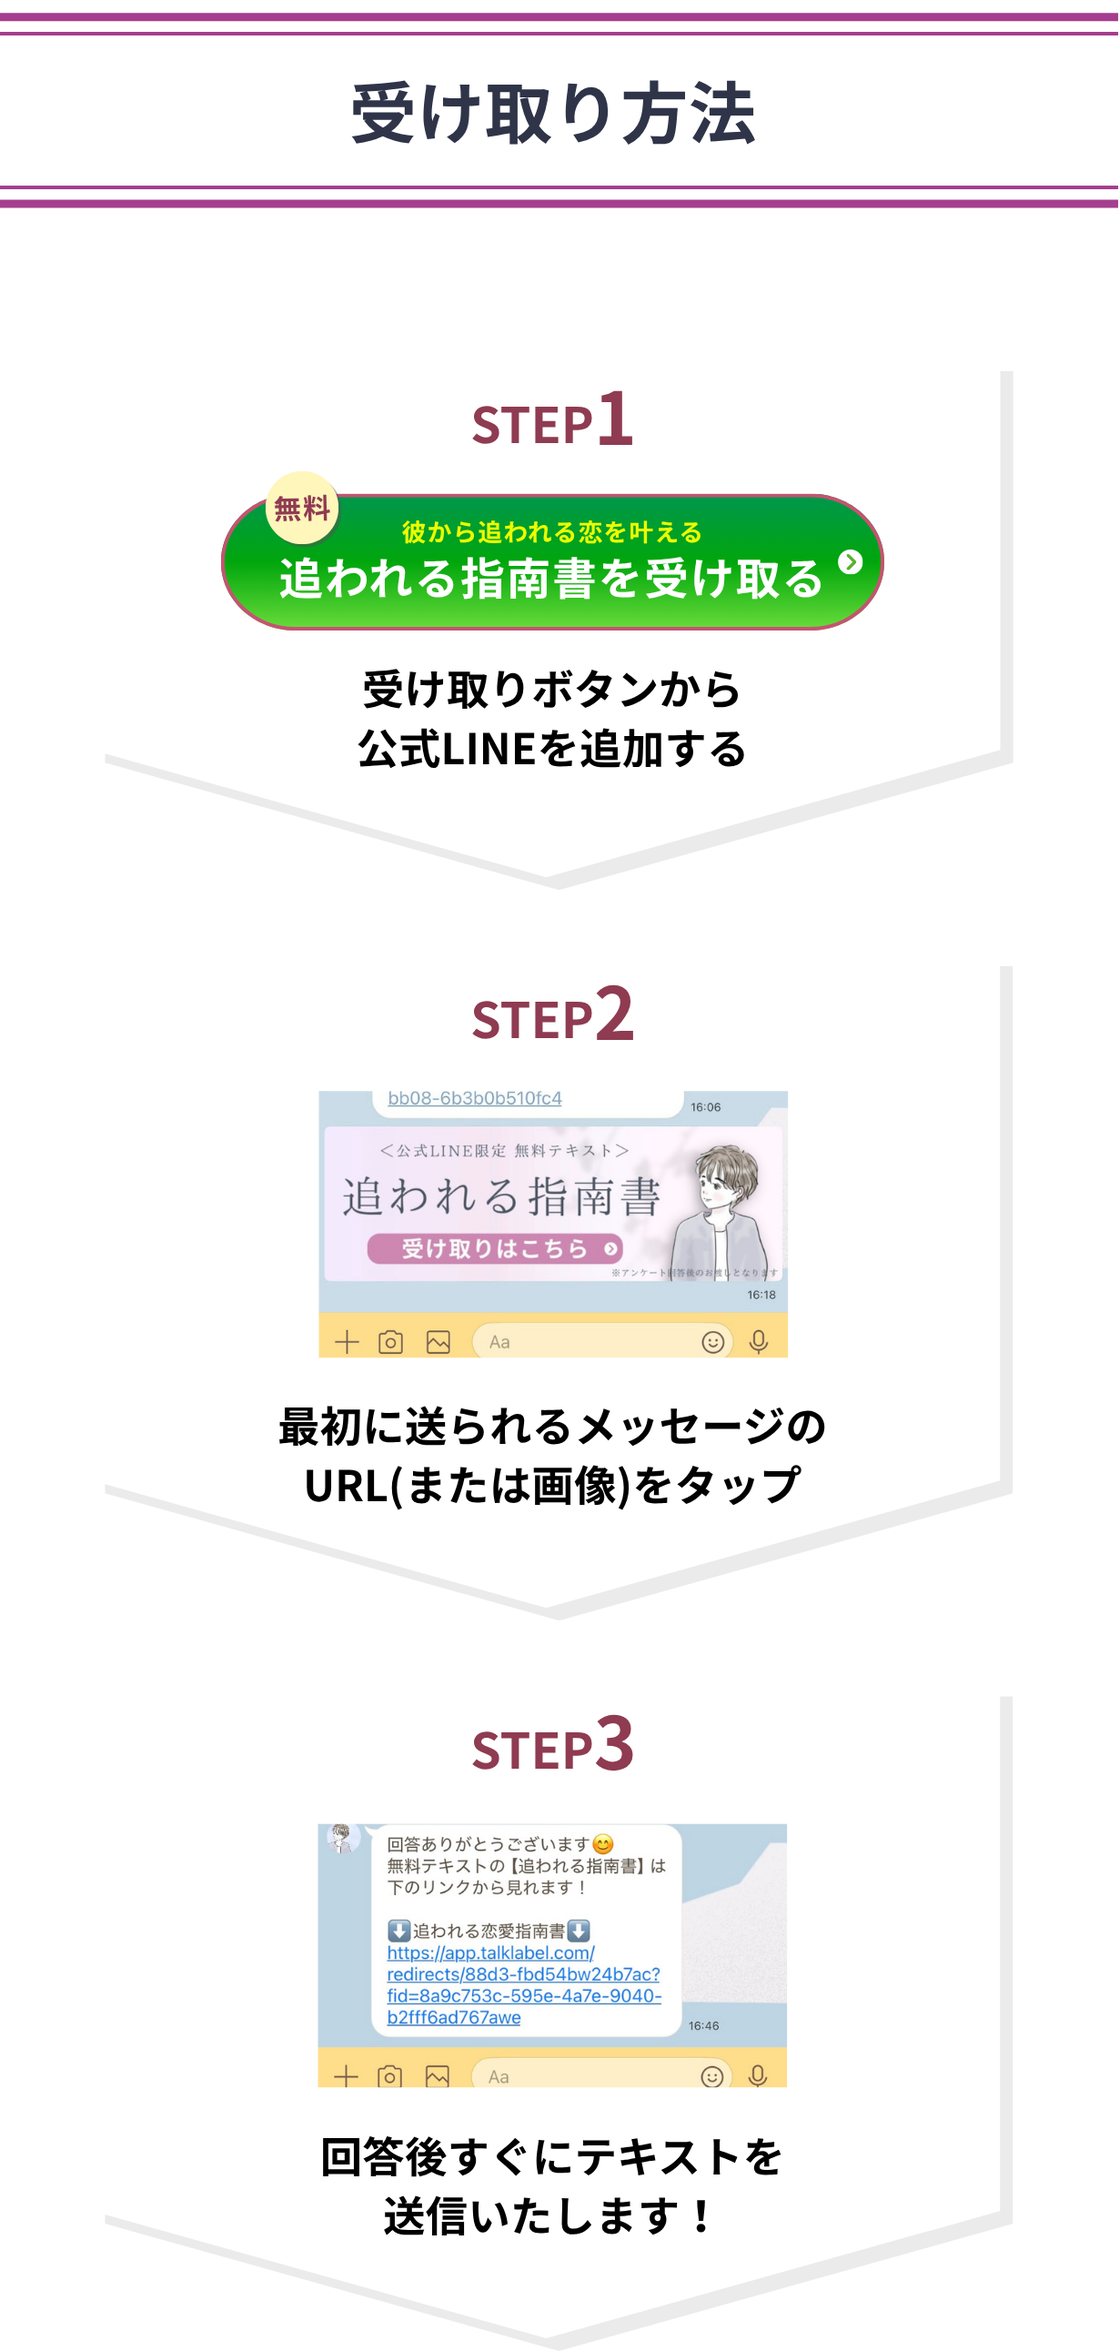
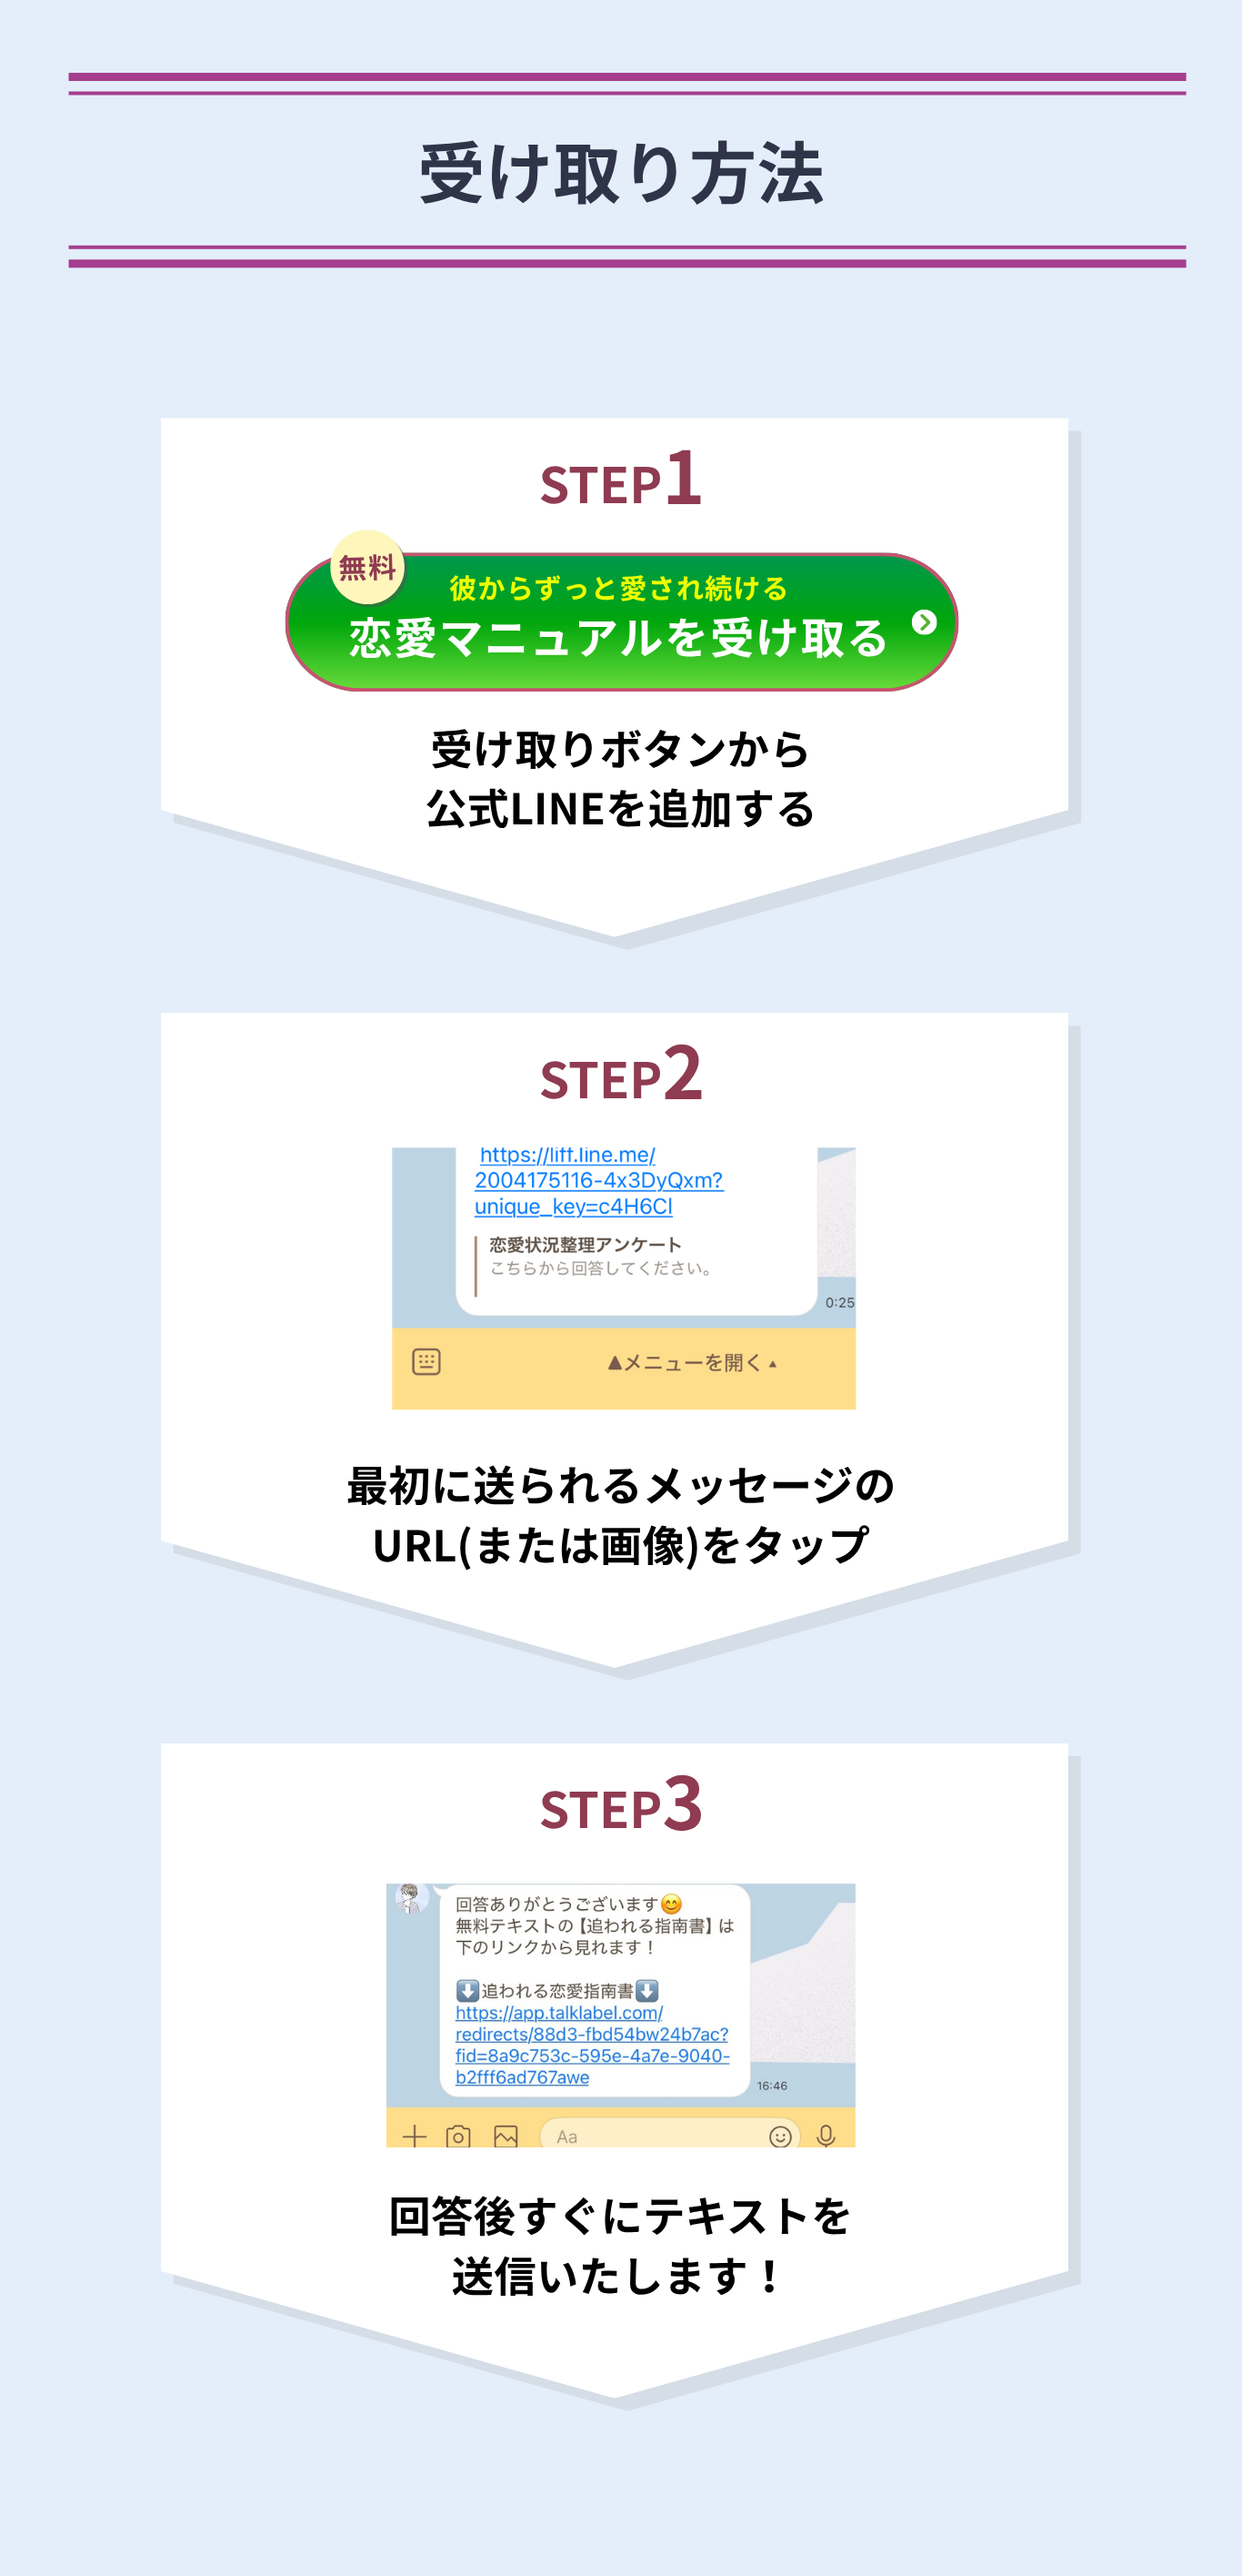
新テキスト対応

diff --git a/html/index.html b/html/index.html
@@ -12,7 +12,7 @@
   <meta property="og:site_name" content="まーくんの恋愛ブログ">
   <meta property="og:title" content="曖昧な関係と男性心理の恋愛相談 | まーくんの恋愛ブログ">
   <meta property="og:description" content="曖昧な関係で悩む女性へ。男性心理を知り、追う恋から愛される恋へ進むための無料指南書をまーくんがお届けします。">
-  <meta property="og:image" content="../image/追われる恋愛指南書.png">
+  <meta property="og:image" content="../image/彼からずっと愛され続ける恋愛マニュアル（冊子風）.png">
   <meta name="twitter:card" content="summary_large_image">
   <meta name="twitter:title" content="曖昧な関係と男性心理の恋愛相談 | まーくん">
   <meta name="twitter:description" content="彼の本音がわからない曖昧な関係から、安心して愛される恋へ。男性心理をもとにまーくんがサポートします。">
@@ -96,18 +96,16 @@
           </span>
           <br>
           <span class="fv-line">
-            <span class="copy-em copy-em--num">200</span>名を超える
+            <span class="copy-em copy-em--num">250</span>名を超える
           </span>
           <br>
           <span class="fv-line">女性をサポートして</span>
           <br>
           <br>
-          <span class="fv-line fv-line--strong">
-            <span class="copy-em copy-em--marker">曖昧な関係</span>から
-          </span>
+          <span class="fv-line fv-line--strong">彼からずっと</span>
           <br>
           <span class="fv-line fv-line--strong">
-            <span class="copy-em copy-em--marker">追われる恋</span>を
+            <span class="copy-em copy-em--marker">愛され続ける恋愛</span>を
           </span>
           <br>
           <span class="fv-line">叶えてきました！</span>
@@ -117,7 +115,7 @@
           <img class="achievement-image" src="../image/2.png" alt="お客様の実績写真">
           <div class="achievement-body">
             <h2 class="achievement-title">身体の関係から
-				<br>大切にされる本命彼女に..!</h2>
+				<br><span class="achievement-copy">大切にされる本命彼女に..!</span></h2>
             <p class="achievement-name">みかさん（30歳／看護師）</p>
             <p class="achievement-text">
               会ったときは彼氏みたいに優しいのに<br>
@@ -134,8 +132,9 @@
 		<article class="achievement-card" aria-label="お客様の実績">
           <img class="achievement-image" src="../image/3.png" alt="お客様の実績写真">
           <div class="achievement-body">
-            <h2 class="achievement-title">身体の関係から
-				    <br>大切にされる本命彼女に..!</h2>
+            <h2 class="achievement-title">1週間未読無視されてた関係が
+				    <br><span class="achievement-copy">「会いたい」って
+              <br>彼から誘われるように！</span></h2>
             <p class="achievement-name">香織さん（39歳／事務職）</p>
             <p class="achievement-text">
             嫌われるのが怖くて、自分から誘うことも、<br>
@@ -150,11 +149,37 @@
     <section class="section seo-intro" aria-labelledby="seo-intro-title">
       <div class="section-inner lp-narrow">
         <p class="section-label">love counseling</p>
-        <h2 id="seo-intro-title">曖昧な関係と男性心理に悩むあなたへ</h2>
-        <div class="seo-intro-grid">
-          <p>まーくんの恋愛ブログでは、「彼は好きと言うのに付き合おうとは言わない」「会えば優しいのに連絡は私からばかり」といった曖昧な関係の悩みに向き合います。</p>
-          <p>男性心理を決めつけで語るのではなく、彼の行動、距離感、あなたの不安の出方を整理しながら、追う恋から大切にされる恋へ進むためのヒントを届けています。</p>
+
+        <div class="seo-hero-slider" aria-hidden="true">
+          <img class="hero-slide is-active" src="../image/LP_スライドショー用１.png" alt="">
+          <img class="hero-slide" src="../image/LP_スライドショー用２.png" alt="">
+          <img class="hero-slide" src="../image/LP_スライドショー用３.png" alt="">
+          <img class="hero-slide" src="../image/LP_スライドショー用４.png" alt="">
         </div>
+        <div class="seo-hero-dots" aria-hidden="true">
+          <span class="seo-hero-dot is-active"></span>
+          <span class="seo-hero-dot"></span>
+          <span class="seo-hero-dot"></span>
+          <span class="seo-hero-dot"></span>
+        </div>
+
+        <h2 id="seo-intro-title" class="seo-hero-copy">
+          <span class="seo-hero-line">
+            彼は私のこと<br>
+            <span class="seo-hero-em">本当に好きなのかな</span>
+          </span>
+          <span class="seo-hero-line seo-hero-line--sm">
+            そんな<span class="seo-hero-strong">不安</span>な<span class="seo-hero-strong">恋</span>も
+          </span>
+          <span class="seo-hero-line">
+            <span class="seo-hero-em seo-hero-quote">彼からずっと愛され続ける方法</span><br>
+            <span class="seo-hero-sub">を知ることができれば</span>
+          </span>
+          <span class="seo-hero-line">
+            ありのままで<span class="seo-hero-em">愛される恋</span>を<br>
+            <span class="seo-hero-sub">叶えることができます</span>
+          </span>
+        </h2>
       </div>
     </section>
 
@@ -166,14 +191,30 @@
 	      <div class="section-inner lp-narrow">
 	        <p class="section-label">empathy</p>
 	        <div class="lp-text-stack">
-	          <p>出会った頃は、デートに誘ってくれたり連絡も頻繁にくれて。</p>
-	          <p>会った時は彼氏みたいに優しくしてくれて、「私のこと好きなのかな？」って感じる時もあるけど…</p>
-	          <p class="lp-em">でも、彼の方から「付き合って欲しい」と告白されたわけでもない。</p>
-	          <p>今では私が「会いたい」「ご飯行きませんか」って言わないと会わないし、LINEも自分がしない限り連絡が来ない…</p>
-	          <p class="lp-em">他に好きな人ができたのかな？と常に不安になる。</p>
-	          <p>自分から積極的に誘って、めんどくさいって思われたくない。</p>
-	          <p class="lp-em">待っていて、彼が離れていくのも不安。</p>
-	          <p>彼との関係をなんとかしたい！そう思っていても、彼の気持ちがわからなくて、どうすればいいのかわからなくなっちゃいますよね。</p>
+	          <p>出会った頃は</p>
+	          <p>デートに誘ってくれたり<br>連絡も頻繁にくれて</p>
+	          <p>会った時は<br>彼氏みたいに優しくしてくれて</p>
+	          <p><strong>私のこと好きなのかな？</strong><br>って感じる時もあるけど…</p>
+
+	          <div class="lp-highlight">
+	            <p>私のこと</p>
+	            <p class="lp-em">本当に好きなのかな</p>
+	          </div>
+
+	          <p>彼の方から</p>
+	          <p><strong>「付き合って欲しい」</strong><br>と告白されたわけでもないし</p>
+	          <p>今では私が<br><strong>「会いたい」「ご飯行きませんか」</strong><br>って言わないと会わないし</p>
+	          <p>LINEも自分がしない限り<br>彼の方から連絡が来ることはなくて…</p><br>
+
+	          <div class="lp-highlight">
+	            <p>他に好きな人ができたのかな？<br>と常に不安になる</p>
+	          </div><br>
+
+	          <p>自分から積極的に誘って<br><strong>めんどくさいって思われたくないし</strong></p>
+	          <p>待っていて、<br><strong>彼が離れていくのも不安。</strong></p>
+	          <p><strong>彼との関係をなんとかしたい！</strong><br>そう思っていても</p>
+	          <p><strong>彼の気持ちがわからなくて</strong><br>どうすればいいのか</p>
+	          <p>わからなくなっちゃいますよね</p>
 	        </div>
 	      </div>
 	    </section>
@@ -183,8 +224,16 @@
 		        <div class="lp-ribbon-badge lp-ribbon-badge--image">
 		          <img class="lp-ribbon-badge-image" src="../image/今ならまだ間に合います.png" alt="今ならまだ間に合います！">
 		        </div>
-		        <p class="lp-lead">「彼が離れていきそう」と不安になればなるほど、どうしても悪い方向に考えてしまうもの。</p>
-		        <p class="lp-lead">でも今から正しく<span class="lp-em">「彼から追われる方法」</span>を身につければ、あなたも<span class="lp-em">ありのままで愛される恋</span>を叶えられます。</p>
+		        <p class="lp-lead">「彼が離れていきそう」
+              <br>と不安になればなるほど、
+              <br>どうしても悪い方向に考えてしまうもの。</p>
+		        <p class="lp-lead">でも今から正しく
+              <br>
+              <br><span class="lp-em">彼からずっと愛され続ける方法</span>
+              <br>を身につければ、
+              <br>
+              <br>あなたも<span class="lp-em">ありのままで愛される恋</span>を
+              <br>叶えられます。</p>
 		      </div>
 		    </section>
 
@@ -200,7 +249,7 @@
 
 		<section class="section lp-final-offer" aria-label="追われる指南書の受け取り">
         <div class="section-inner lp-narrow">
-          <img class="lp-book-image" src="../image/追われる恋愛指南書.png" alt="好きな彼から追われる恋愛指南書">
+          <img class="lp-book-image" src="../image/彼からずっと愛され続ける恋愛マニュアル（冊子風）.png" alt="好きな彼から追われる恋愛指南書">
           <div class="lp-cta">
             <a class="lp-cta-btn lp-cta-btn--image" href="https://line.me/R/ti/p/@maakun_love" data-track="bottom_line" aria-label="追われる指南書を受け取る">
               <img class="lp-cta-btn-image" src="../image/追加ボタン.png" alt="追われる指南書を受け取る">
@@ -467,7 +516,7 @@
       
       <section class="section lp-final-offer" aria-label="追われる指南書の受け取り">
         <div class="section-inner lp-narrow">
-          <img class="lp-book-image" src="../image/追われる恋愛指南書.png" alt="好きな彼から追われる恋愛指南書">
+          <img class="lp-book-image" src="../image/彼からずっと愛され続ける恋愛マニュアル（冊子風）.png" alt="好きな彼から追われる恋愛指南書">
           <div class="lp-cta">
             <a class="lp-cta-btn lp-cta-btn--image" href="https://line.me/R/ti/p/@maakun_love" data-track="bottom_line" aria-label="追われる指南書を受け取る">
               <img class="lp-cta-btn-image" src="../image/追加ボタン.png" alt="追われる指南書を受け取る">

diff --git a/css/style.css b/css/style.css
@@ -516,12 +516,24 @@ h3 {
 }
 
 .lp-band {
+  position: relative;
+  z-index: 1;
   padding: 22px 18px;
   background: var(--rose);
   color: var(--white);
   text-align: center;
   font-size: clamp(1.2rem, 3.8vw, 1.6rem);
-  font-weight: 600;
+  font-weight: 700;
+}
+
+.lp-band::after {
+  content: "";
+  position: absolute;
+  bottom: -16px;
+  left: 50%;
+  transform: translateX(-50%);
+  border: 8px solid transparent;
+  border-top-color: var(--rose);
 }
 
 .lp-empathy {
@@ -547,6 +559,71 @@ h3 {
   font-weight: 600;
 }
 
+.seo-hero-slider {
+  position: relative;
+  width: 100%;
+  aspect-ratio: 16 / 9;
+  margin-top: 18px;
+  border-radius: 16px;
+  overflow: hidden;
+  box-shadow: var(--shadow);
+}
+
+.seo-hero-dots {
+  display: flex;
+  justify-content: center;
+  gap: 6px;
+  margin: 12px 0 30px;
+}
+
+.seo-hero-dot {
+  width: 7px;
+  height: 7px;
+  border-radius: 50%;
+  background: var(--line);
+  transition: background 0.3s ease;
+}
+
+.seo-hero-dot.is-active {
+  background: var(--rose-dark);
+}
+
+.seo-hero-copy {
+  display: grid;
+  gap: 22px;
+  text-align: center;
+}
+
+.seo-hero-line {
+  display: block;
+  font-size: clamp(1.2rem, 4.4vw, 1.5rem);
+  font-weight: 700;
+  color: var(--ink);
+  line-height: 1.55;
+}
+
+.seo-hero-line--sm {
+  font-size: clamp(1.05rem, 3.8vw, 1.25rem);
+}
+
+.seo-hero-em {
+  color: var(--rose-dark);
+  font-weight: 900;
+}
+
+.seo-hero-strong {
+  font-weight: 900;
+  font-size: 1.15em;
+}
+
+.seo-hero-sub {
+  display: inline-block;
+  margin-top: 4px;
+  font-size: 0.7em;
+  font-weight: 600;
+  color: var(--muted);
+}
+
 .lp-text-stack {
   margin-top: 26px;
   display: grid;
@@ -557,6 +634,26 @@ h3 {
 
 .lp-em {
   font-weight: 900;
+  color: var(--rose-dark);
+}
+
+.lp-highlight {
+  display: grid;
+  gap: 4px;
+  margin: 6px 0;
+  text-align: center;
+}
+
+.lp-highlight p {
+  margin: 0;
+  font-weight: 700;
+  font-size: 1.05rem;
+  color: var(--ink);
+}
+
+.lp-highlight p.lp-em {
+  font-weight: 900;
+  font-size: 1.3rem;
   color: var(--rose-dark);
 }
 
@@ -652,7 +749,7 @@ h3 {
 
 .lp-book-image {
   display: block;
-  width: min(170px, 50%);
+  width: min(280px, 78%);
   height: auto;
   border-radius: 10px;
   box-shadow: none;
@@ -792,7 +889,7 @@ h3 {
 }
 
 .lp-final-offer .lp-book-image {
-  width: min(170px, 50%);
+  width: min(280px, 78%);
   height: auto;
   margin: 0 auto;
   display: block;
@@ -1107,8 +1204,9 @@ h3 {
 }
 
 .copy-em {
-  font-weight: 700;
-  font-size: clamp(2.25rem, 6.2vw, 2.35rem);
+  font-weight: 650;
+  font-size: clamp(2.00rem, 6.2vw, 2.00rem);
+  letter-spacing: 0.03em;
 }
 
 .copy-em--num {
@@ -1118,9 +1216,9 @@ h3 {
 
 .copy-em--marker {
   display: inline;
-  padding: 0em 0.26em;
+  padding: 0em 0.16em;
   border-radius: 8px;
-  background: linear-gradient(transparent 70%, rgba(216, 91, 127, 0.24) 0);
+  background: linear-gradient(transparent 60%, rgba(216, 91, 127, 0.24) 0);
   color: var(--rose-dark);
 }
 
@@ -1148,7 +1246,7 @@ h3 {
 
 .achievement-title {
   margin: 20px 0;
-  font-size: 1.2rem;
+  font-size: 0.5rem;
   font-weight: 900;
   line-height: 1.45;
   color: var(--ink);
@@ -1251,12 +1349,18 @@ h3 {
     margin-top: 14px;
   }
 
+  .achievement-copy{
+    margin-top: 18px;
+    font-size: clamp(1.25rem, 6vw, 1.55rem);
+    color: var(--rose-dark);
+  }
+
   .achievement-body {
     padding: 16px 16px 18px;
   }
 
   .achievement-title {
-    font-size: 1.45rem;
+    font-size: 1.15rem;
     line-height: 1.35;
   }
 

diff --git a/story-lp-sections.html b/story-lp-sections.html
@@ -235,7 +235,7 @@
 
 <section class="section lp-final-offer" aria-label="追われる指南書の受け取り">
   <div class="section-inner lp-narrow">
-    <img class="lp-book-image" src="../image/追われる恋愛指南書.png" alt="好きな彼から追われる恋愛指南書">
+    <img class="lp-book-image" src="../image/彼からずっと愛され続ける恋愛マニュアル（冊子風）.png" alt="好きな彼から追われる恋愛指南書">
     <div class="lp-cta">
       <a class="lp-cta-btn lp-cta-btn--image" href="https://line.me/R/ti/p/@maakun_love" data-track="bottom_line" aria-label="追われる指南書を受け取る">
         <img class="lp-cta-btn-image" src="../image/追加ボタン.png" alt="追われる指南書を受け取る">

diff --git a/javascript/main.js b/javascript/main.js
@@ -12,11 +12,14 @@ function updateHeader() {
 function startHeroSlider() {
   if (slides.length < 2) return;
 
+  const dots = Array.from(document.querySelectorAll(".seo-hero-dot"));
   let index = 0;
   window.setInterval(() => {
     slides[index].classList.remove("is-active");
+    dots[index]?.classList.remove("is-active");
     index = (index + 1) % slides.length;
     slides[index].classList.add("is-active");
+    dots[index]?.classList.add("is-active");
   }, 4500);
 }
 
